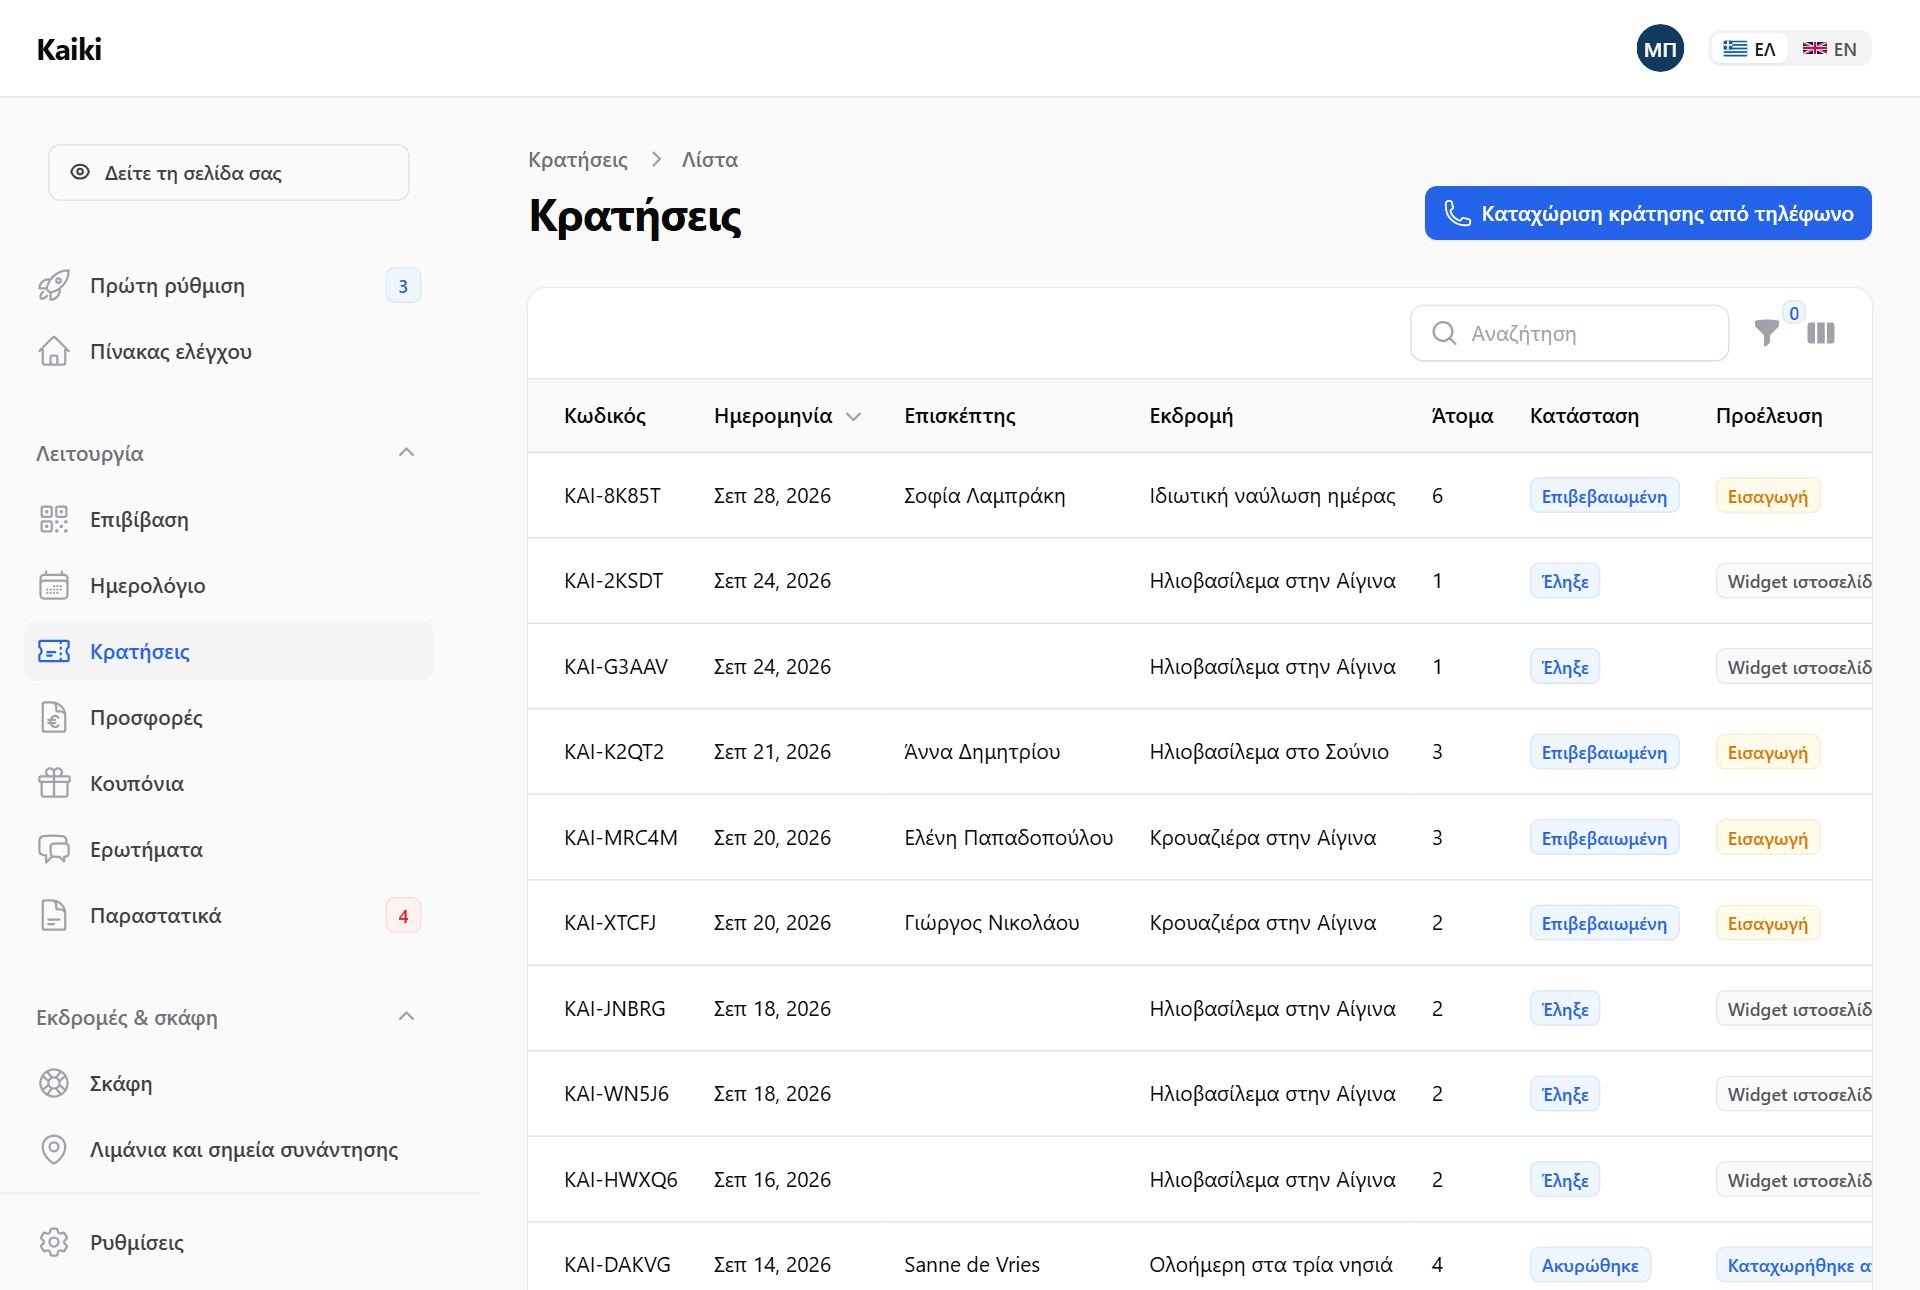
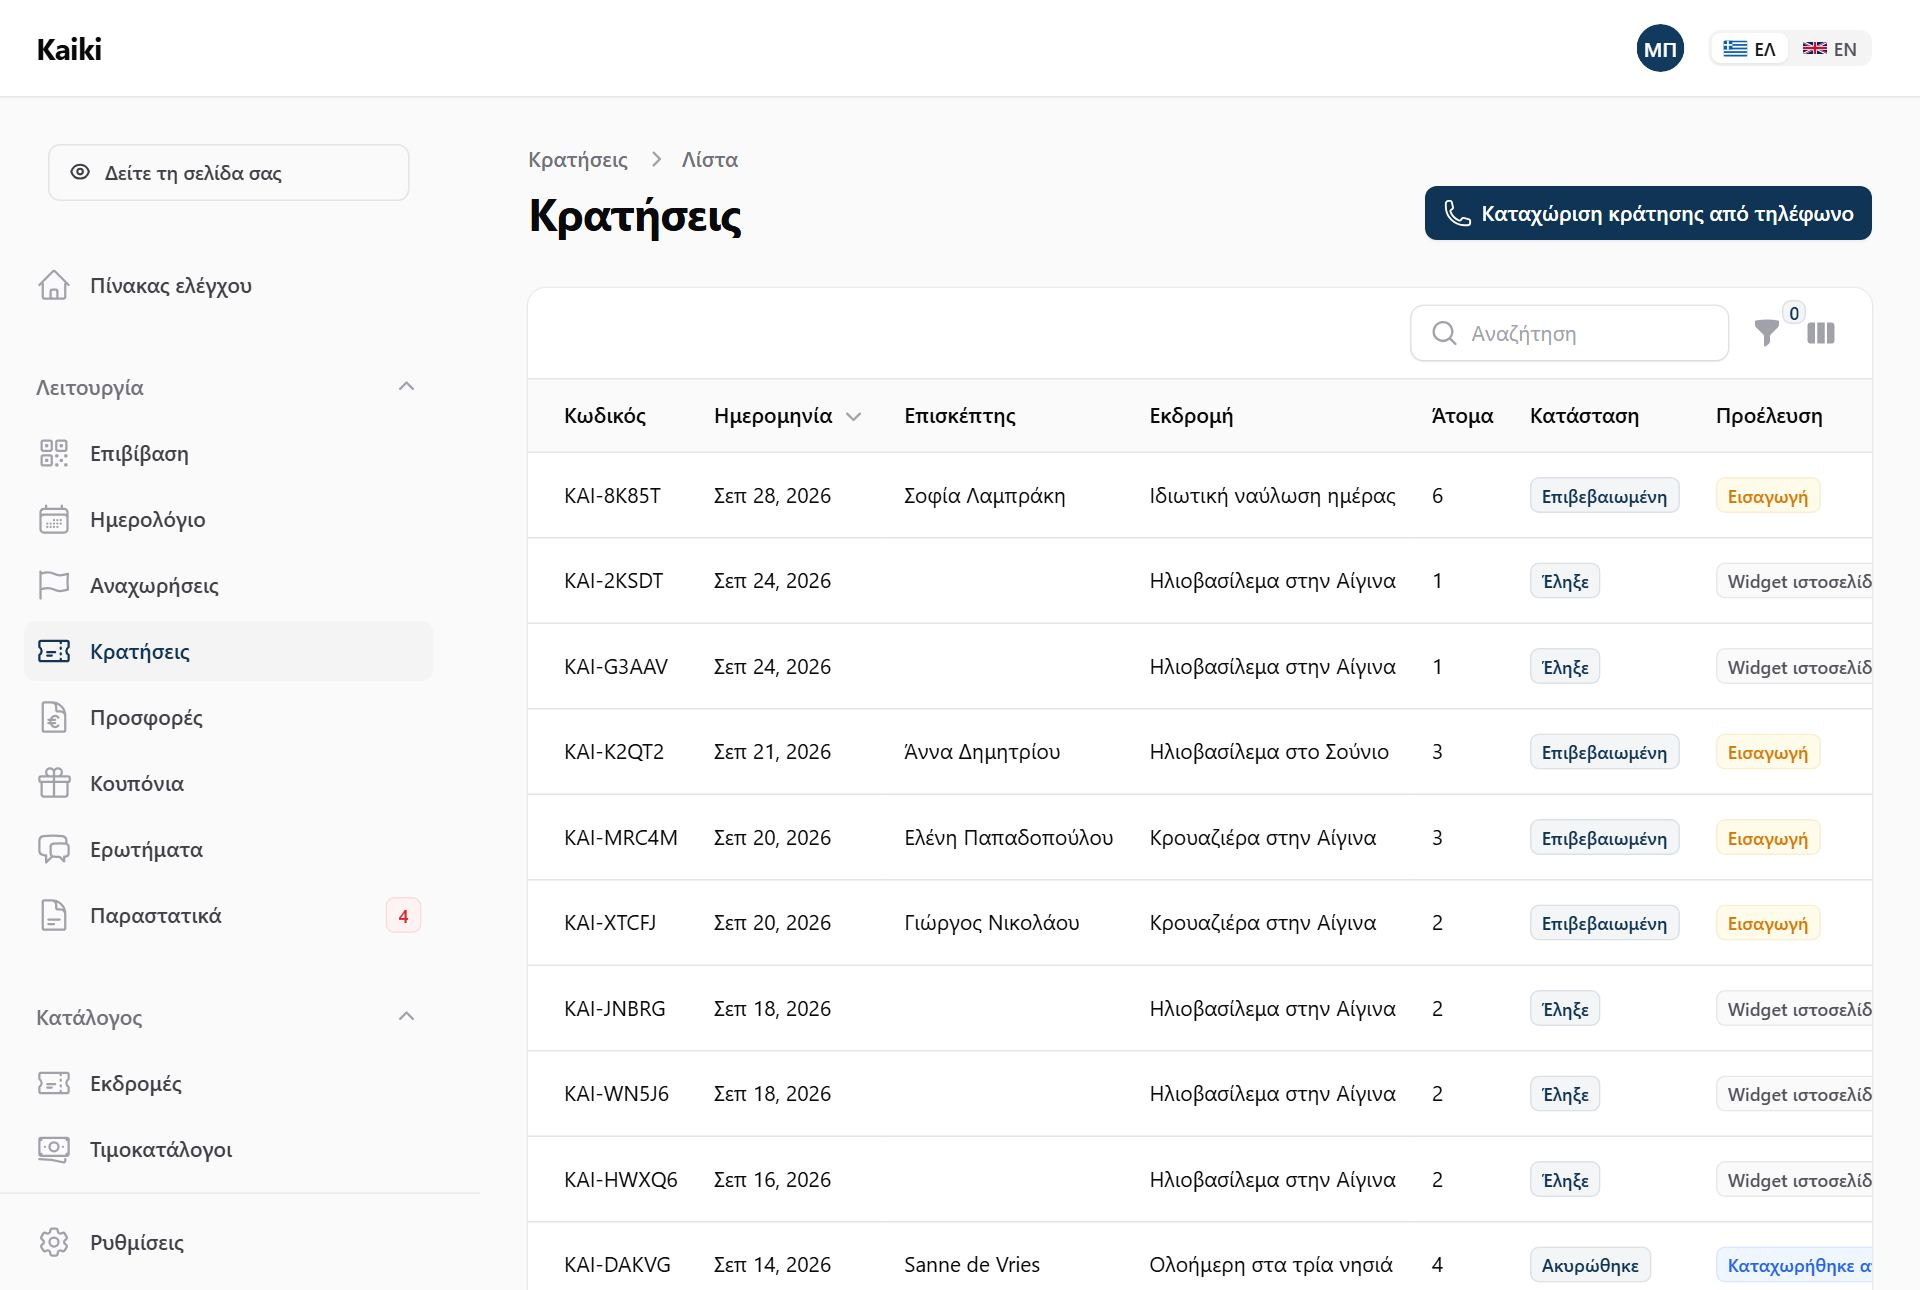
refactor(panel): four navigation groups, because three had to be explained
«Εκδρομές & σκάφη» held ten entries covering three unrelated ideas — the
thing you sell, the rule that says when it runs, and the boats it runs on
— and the product owner asked, in as many words, what the difference
between a δρομολόγιο and an εκδρομή is. A menu that has to be explained
is a menu that is wrong, so the two ideas are two groups and the group
names answer the question before it is asked:

  Λειτουργία          τι γίνεται σήμερα
  Κατάλογος           τι πουλάτε
  Πρόγραμμα & στόλος  πότε σαλπάρει, με τι
  Ρυθμίσεις

**Αναχωρήσεις moved into Λειτουργία.** It is the screen an operator opens
every morning and it was filed with the ones touched once a season,
underneath a heading about boats. Κρατήσεις and Επιβίβαση were already in
the right place; this one had been left behind.

The catalogue keeps only what is sold — εκδρομές, τιμοκατάλογοι,
περίοδοι, πολιτικές ακύρωσης — renumbered to read in the order an
operator builds them. Δρομολόγια, σκάφη, δεσμεύσεις, λιμάνια and the
reconciliation screen make up the new group.

Nothing moved into or out of Ρυθμίσεις, and no screen gained or lost a
permission: this is where things are listed, not what they are.

`PanelLocaleTest` pinned the old labels and is updated — it now asserts
all four groups in both locales rather than two, which is what it should
have done before a third could appear untranslated.

Verified in a browser at /app in Greek: four groups in the intended
[…]

diff --git a/app/Providers/Filament/AppPanelProvider.php b/app/Providers/Filament/AppPanelProvider.php
@@ -167,9 +167,27 @@ class AppPanelProvider extends PanelProvider
              * you rarely need read better as a page you can scan than as a list
              * you first have to open.
              */
+            /*
+             * The order the sidebar reads in, and it is an argument rather than
+             * a list: what is happening today, then what you sell, then when it
+             * sails and with what.
+             *
+             * «Κατάλογος» and «Πρόγραμμα & στόλος» were one group called
+             * «Εκδρομές & σκάφη» until 14 September. Ten entries covering three
+             * unrelated ideas — the thing sold, the rule that says when it runs,
+             * and the boats — and the product owner asked, in as many words,
+             * what the difference between a δρομολόγιο and an εκδρομή was. A
+             * menu that has to be explained is a menu that is wrong, so the two
+             * ideas are two groups and the group names answer the question.
+             *
+             * Αναχωρήσεις moved out of it into «Λειτουργία»: it is the screen
+             * an operator opens every morning, and it was filed with the
+             * once-a-season ones.
+             */
             ->navigationGroups([
                 NavigationGroup::make()->label(fn (): string => __('panel.groups.operations')),
                 NavigationGroup::make()->label(fn (): string => __('panel.groups.catalogue')),
+                NavigationGroup::make()->label(fn (): string => __('panel.groups.fleet')),
             ])
             /*
              * The export download (OPS-18).

diff --git a/tests/Feature/Panel/PanelLocaleTest.php b/tests/Feature/Panel/PanelLocaleTest.php
@@ -20,11 +20,15 @@ use function Pest\Laravel\get;
 it('translates the panel navigation groups in both locales', function (): void {
     app()->setLocale('en');
     expect(__('panel.groups.operations'))->toBe('Operations')
-        ->and(__('panel.groups.catalogue'))->toBe('Trips & boats');
+        ->and(__('panel.groups.catalogue'))->toBe('Catalogue')
+        ->and(__('panel.groups.fleet'))->toBe('Schedule & fleet')
+        ->and(__('panel.groups.settings'))->toBe('Settings');
 
     app()->setLocale('el');
     expect(__('panel.groups.operations'))->toBe('Λειτουργία')
-        ->and(__('panel.groups.catalogue'))->toBe('Εκδρομές & σκάφη');
+        ->and(__('panel.groups.catalogue'))->toBe('Κατάλογος')
+        ->and(__('panel.groups.fleet'))->toBe('Πρόγραμμα & στόλος')
+        ->and(__('panel.groups.settings'))->toBe('Ρυθμίσεις');
 })->group('fast');
 
 it('translates the super-admin brand name', function (): void {

diff --git a/app/Filament/App/Pages/DepartureReconciliation.php b/app/Filament/App/Pages/DepartureReconciliation.php
@@ -31,7 +31,7 @@ class DepartureReconciliation extends Page
 {
     protected static ?string $navigationIcon = 'heroicon-o-exclamation-triangle';
 
-    protected static ?int $navigationSort = 35;
+    protected static ?int $navigationSort = 50;
 
     protected static string $view = 'filament.app.pages.departure-reconciliation';
 
@@ -75,7 +75,7 @@ class DepartureReconciliation extends Page
 
     public static function getNavigationGroup(): ?string
     {
-        return __('panel.groups.catalogue');
+        return __('panel.groups.fleet');
     }
 
     public static function getNavigationLabel(): string

diff --git a/app/Filament/App/Resources/VesselResource.php b/app/Filament/App/Resources/VesselResource.php
@@ -54,7 +54,7 @@ class VesselResource extends Resource
 
     protected static ?string $navigationIcon = 'heroicon-o-lifebuoy';
 
-    protected static ?int $navigationSort = 10;
+    protected static ?int $navigationSort = 20;
 
     /**
      * The `specs` keys this form renders (`docs/data-model.md` §3.9).
@@ -71,7 +71,7 @@ class VesselResource extends Resource
 
     public static function getNavigationGroup(): ?string
     {
-        return __('panel.groups.catalogue');
+        return __('panel.groups.fleet');
     }
 
     public static function getNavigationLabel(): string

diff --git a/app/Filament/App/Resources/VesselBlockResource.php b/app/Filament/App/Resources/VesselBlockResource.php
@@ -58,11 +58,11 @@ class VesselBlockResource extends Resource
 
     protected static ?string $navigationIcon = 'heroicon-o-wrench-screwdriver';
 
-    protected static ?int $navigationSort = 45;
+    protected static ?int $navigationSort = 30;
 
     public static function getNavigationGroup(): ?string
     {
-        return __('panel.groups.catalogue');
+        return __('panel.groups.fleet');
     }
 
     public static function getNavigationLabel(): string

diff --git a/app/Filament/App/Resources/ScheduleRuleResource.php b/app/Filament/App/Resources/ScheduleRuleResource.php
@@ -60,11 +60,11 @@ class ScheduleRuleResource extends Resource
 
     protected static ?string $navigationIcon = 'heroicon-o-calendar';
 
-    protected static ?int $navigationSort = 30;
+    protected static ?int $navigationSort = 10;
 
     public static function getNavigationGroup(): ?string
     {
-        return __('panel.groups.catalogue');
+        return __('panel.groups.fleet');
     }
 
     public static function getNavigationLabel(): string

diff --git a/app/Filament/App/Resources/DepartureResource.php b/app/Filament/App/Resources/DepartureResource.php
@@ -75,11 +75,11 @@ class DepartureResource extends Resource
 
     protected static ?string $navigationIcon = 'heroicon-o-flag';
 
-    protected static ?int $navigationSort = 40;
+    protected static ?int $navigationSort = 3;
 
     public static function getNavigationGroup(): ?string
     {
-        return __('panel.groups.catalogue');
+        return __('panel.groups.operations');
     }
 
     public static function getNavigationLabel(): string

diff --git a/app/Filament/App/Resources/PortResource.php b/app/Filament/App/Resources/PortResource.php
@@ -46,11 +46,11 @@ class PortResource extends Resource
 
     protected static ?string $navigationIcon = 'heroicon-o-map-pin';
 
-    protected static ?int $navigationSort = 20;
+    protected static ?int $navigationSort = 40;
 
     public static function getNavigationGroup(): ?string
     {
-        return __('panel.groups.catalogue');
+        return __('panel.groups.fleet');
     }
 
     public static function getNavigationLabel(): string

diff --git a/app/Filament/App/Resources/CancellationPolicyResource.php b/app/Filament/App/Resources/CancellationPolicyResource.php
@@ -54,7 +54,7 @@ class CancellationPolicyResource extends Resource
 
     protected static ?string $navigationIcon = 'heroicon-o-arrow-uturn-left';
 
-    protected static ?int $navigationSort = 30;
+    protected static ?int $navigationSort = 40;
 
     public static function getNavigationGroup(): ?string
     {

diff --git a/lang/el/panel.php b/lang/el/panel.php
@@ -14,7 +14,8 @@ return [
 
     'groups' => [
         'operations' => 'Λειτουργία',
-        'catalogue' => 'Εκδρομές & σκάφη',
+        'catalogue' => 'Κατάλογος',
+        'fleet' => 'Πρόγραμμα & στόλος',
         'settings' => 'Ρυθμίσεις',
     ],
 

diff --git a/app/Filament/App/Resources/SeasonResource.php b/app/Filament/App/Resources/SeasonResource.php
@@ -45,7 +45,7 @@ class SeasonResource extends Resource
 
     protected static ?string $navigationIcon = 'heroicon-o-calendar-days';
 
-    protected static ?int $navigationSort = 40;
+    protected static ?int $navigationSort = 30;
 
     public static function getNavigationGroup(): ?string
     {

diff --git a/app/Filament/App/Resources/RatePlanResource.php b/app/Filament/App/Resources/RatePlanResource.php
@@ -65,7 +65,7 @@ class RatePlanResource extends Resource
 
     protected static ?string $navigationIcon = 'heroicon-o-banknotes';
 
-    protected static ?int $navigationSort = 50;
+    protected static ?int $navigationSort = 20;
 
     public static function getNavigationGroup(): ?string
     {
